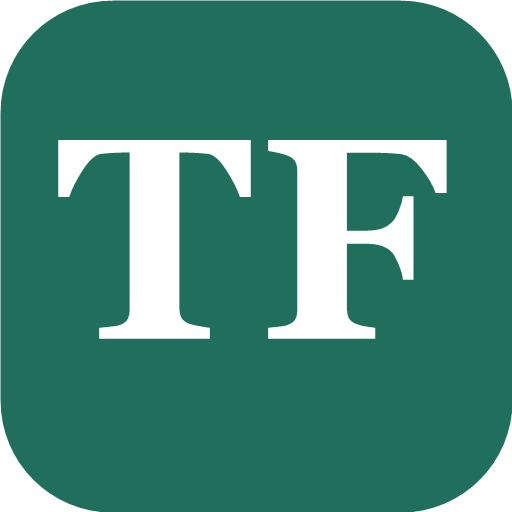
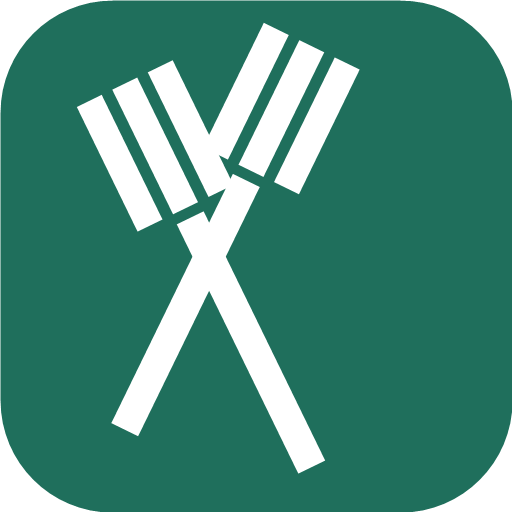
Replace the fork-and-knife emoji brand mark with a two-forks glyph
The 🍴 emoji used as the logo (loading screens, auth/onboarding hero,
and the header brand icon top-left of the app) is literally a fork
and a knife, which doesn't match the app's actual name. Added a
custom two-crossed-forks SVG icon and swapped it in everywhere the
emoji was used as a brand mark (left the unrelated food emoji used
elsewhere in place, like the empty-state plate and dish-preview
prefix, since those aren't the app's logo).

Also regenerated the home-screen/app icon PNGs (favicon, apple-touch,
192, 512) with the same two-forks design in place of the "TF"
monogram, for consistency wherever the icon appears.

Changed region(s): [[0.0938, 0.0312, 0.875, 0.9375]]

diff --git a/index.html b/index.html
@@ -438,14 +438,14 @@ function showToast(msg){
 var app = document.getElementById("app");
 function render(){
   if(!S.authChecked){
-    app.innerHTML = '<div class="shell"><div class="onboard"><div class="center-loading"><div class="fork">🍴</div><p style="color:var(--ink-soft);">Loading…</p></div></div></div>';
+    app.innerHTML = '<div class="shell"><div class="onboard"><div class="center-loading"><div class="fork">'+iconTwoForks()+'</div><p style="color:var(--ink-soft);">Loading…</p></div></div></div>';
     return;
   }
   if(!S.authUser){ app.innerHTML = authHtml(); bindAuth(); return; }
   if(S.needsName){ app.innerHTML = nameHtml(); bindName(); return; }
   if(!S.spaceCode){ app.innerHTML = onboardingHtml(); bindOnboarding(); return; }
   if(S.loadingSpace){
-    app.innerHTML = '<div class="shell"><div class="onboard"><div class="center-loading"><div class="fork">🍴</div><p style="color:var(--ink-soft);">Loading your list…</p></div></div></div>';
+    app.innerHTML = '<div class="shell"><div class="onboard"><div class="center-loading"><div class="fork">'+iconTwoForks()+'</div><p style="color:var(--ink-soft);">Loading your list…</p></div></div></div>';
     return;
   }
   var prevSheetBody = document.querySelector(".sheet-body");
@@ -463,7 +463,7 @@ function render(){
 function authHtml(){
   var signUp = S.authMode==="signup";
   var html = '<div class="shell"><div class="onboard">';
-  html += '<div class="onboard-hero" style="margin-top:6vh;margin-bottom:20px;"><div class="fork">🍴</div><h1 style="font-size:30px;">Two Forks</h1>'+
+  html += '<div class="onboard-hero" style="margin-top:6vh;margin-bottom:20px;"><div class="fork">'+iconTwoForks()+'</div><h1 style="font-size:30px;">Two Forks</h1>'+
     '<p>Keep track of every place you love — and everywhere you still want to try. Sign in to get started.</p></div>';
   if(S.authError) html += '<div class="err-box">'+escapeHtml(S.authError)+'</div>';
   html += '<button class="btn btn-secondary btn-block" id="google-btn" '+(S.authBusy?"disabled":"")+'>'+googleIcon()+' Continue with Google</button>';
@@ -540,7 +540,7 @@ function onboardingHtml(){
       '</div></div>';
   }
   return '<div class="shell"><div class="onboard">'+
-    '<div class="onboard-hero"><div class="fork">🍴</div><h1>Hi, '+escapeHtml(S.me)+'</h1>'+
+    '<div class="onboard-hero"><div class="fork">'+iconTwoForks()+'</div><h1>Hi, '+escapeHtml(S.me)+'</h1>'+
     '<p>Start a fresh list, or join one someone already shared with you.</p></div>'+
     '<div class="onboard-actions">'+
       '<button class="btn btn-primary btn-block" id="ob-start">Start a new list</button>'+
@@ -609,6 +609,22 @@ function iconMap(){ return '<svg width="14" height="14" viewBox="0 0 24 24" fill
 function iconTrash(){ return '<svg width="16" height="16" viewBox="0 0 24 24" fill="none" stroke="currentColor" stroke-width="2" stroke-linecap="round"><path d="M4 7h16M9 7V4h6v3M6 7l1 13h10l1-13"/></svg>'; }
 function iconCopy(){ return '<svg width="16" height="16" viewBox="0 0 24 24" fill="none" stroke="currentColor" stroke-width="2"><rect x="9" y="9" width="12" height="12" rx="2"/><path d="M5 15H4a1 1 0 01-1-1V4a1 1 0 011-1h10a1 1 0 011 1v1"/></svg>'; }
 function iconCamera(){ return '<svg width="18" height="18" viewBox="0 0 24 24" fill="none" stroke="currentColor" stroke-width="2"><path d="M4 8h3l2-3h6l2 3h3a1 1 0 011 1v10a1 1 0 01-1 1H4a1 1 0 01-1-1V9a1 1 0 011-1z"/><circle cx="12" cy="13" r="3.5"/></svg>'; }
+function iconTwoForks(){
+  return '<svg width="1em" height="1em" viewBox="0 0 24 24" fill="currentColor" stroke="none" style="vertical-align:-0.14em;">'+
+    '<g transform="rotate(-26 12 12)">'+
+      '<rect x="9.3" y="9" width="1.4" height="13" rx="0.7"/>'+
+      '<rect x="7.5" y="2" width="1.3" height="6.5" rx="0.6"/>'+
+      '<rect x="9.35" y="2" width="1.3" height="6.5" rx="0.6"/>'+
+      '<rect x="11.2" y="2" width="1.3" height="6.5" rx="0.6"/>'+
+    '</g>'+
+    '<g transform="rotate(26 12 12)">'+
+      '<rect x="9.3" y="9" width="1.4" height="13" rx="0.7"/>'+
+      '<rect x="7.5" y="2" width="1.3" height="6.5" rx="0.6"/>'+
+      '<rect x="9.35" y="2" width="1.3" height="6.5" rx="0.6"/>'+
+      '<rect x="11.2" y="2" width="1.3" height="6.5" rx="0.6"/>'+
+    '</g>'+
+  '</svg>';
+}
 
 /* ---------------- Shell ---------------- */
 function shellHtml(){
@@ -629,7 +645,7 @@ function headerHtml(){
     return '<div class="avatar" style="background:'+avatarColor(p.name)+'" title="'+escapeHtml(p.name)+'">'+initials(p.name)+'</div>';
   }).join("");
   var html = '<div class="header">';
-  html += '<div class="header-row"><div class="brand"><span class="fork">🍴</span><span>Two Forks</span></div><div class="people-row">'+avatars+'</div></div>';
+  html += '<div class="header-row"><div class="brand"><span class="fork">'+iconTwoForks()+'</span><span>Two Forks</span></div><div class="people-row">'+avatars+'</div></div>';
   html += '<div class="header-row"><h1 class="tabs-title display">'+title+'</h1>'+
     '<span class="sync-note"><span class="sync-dot" style="background:var(--accent)"></span>Synced</span></div>';
   if(S.tab==="been" || S.tab==="want"){
